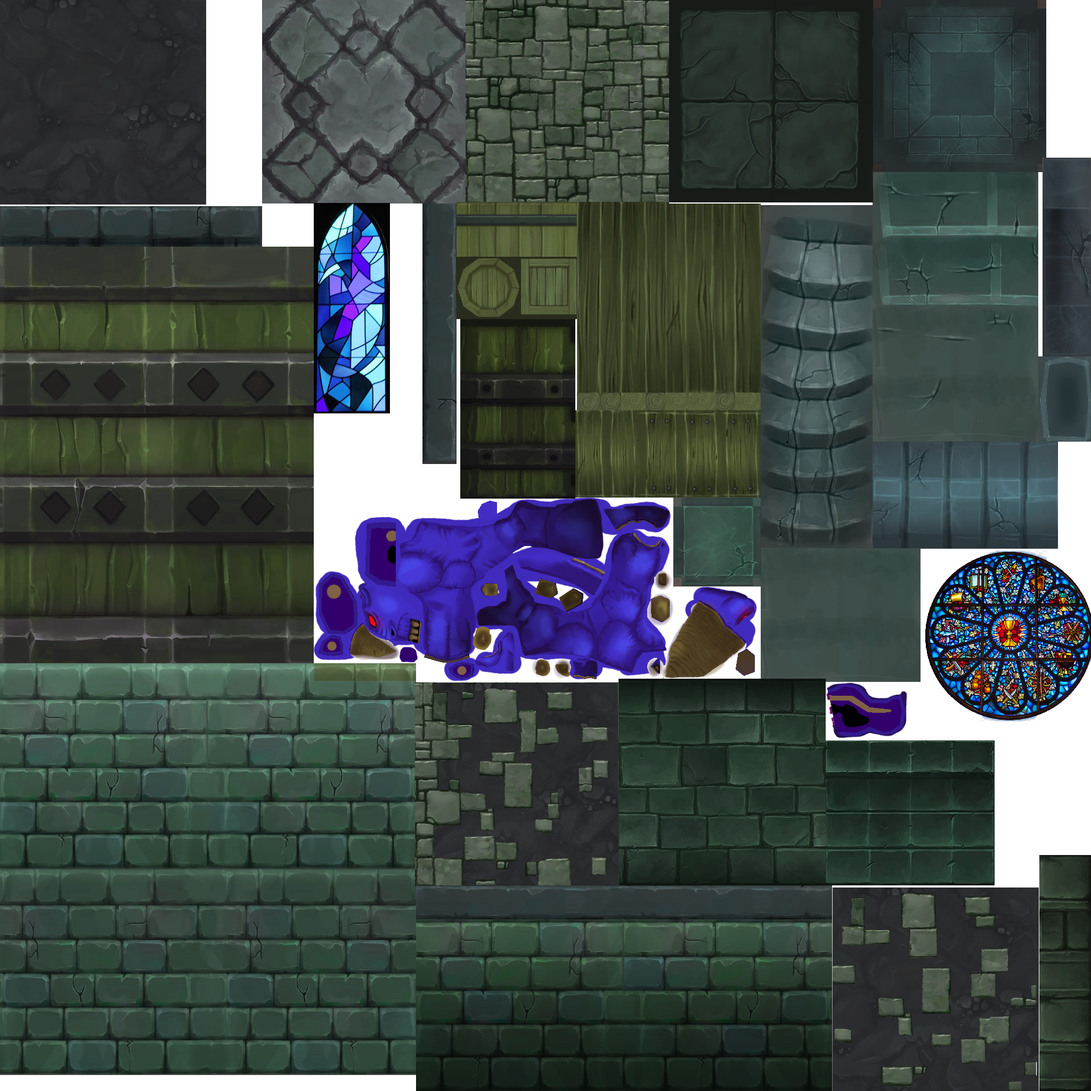
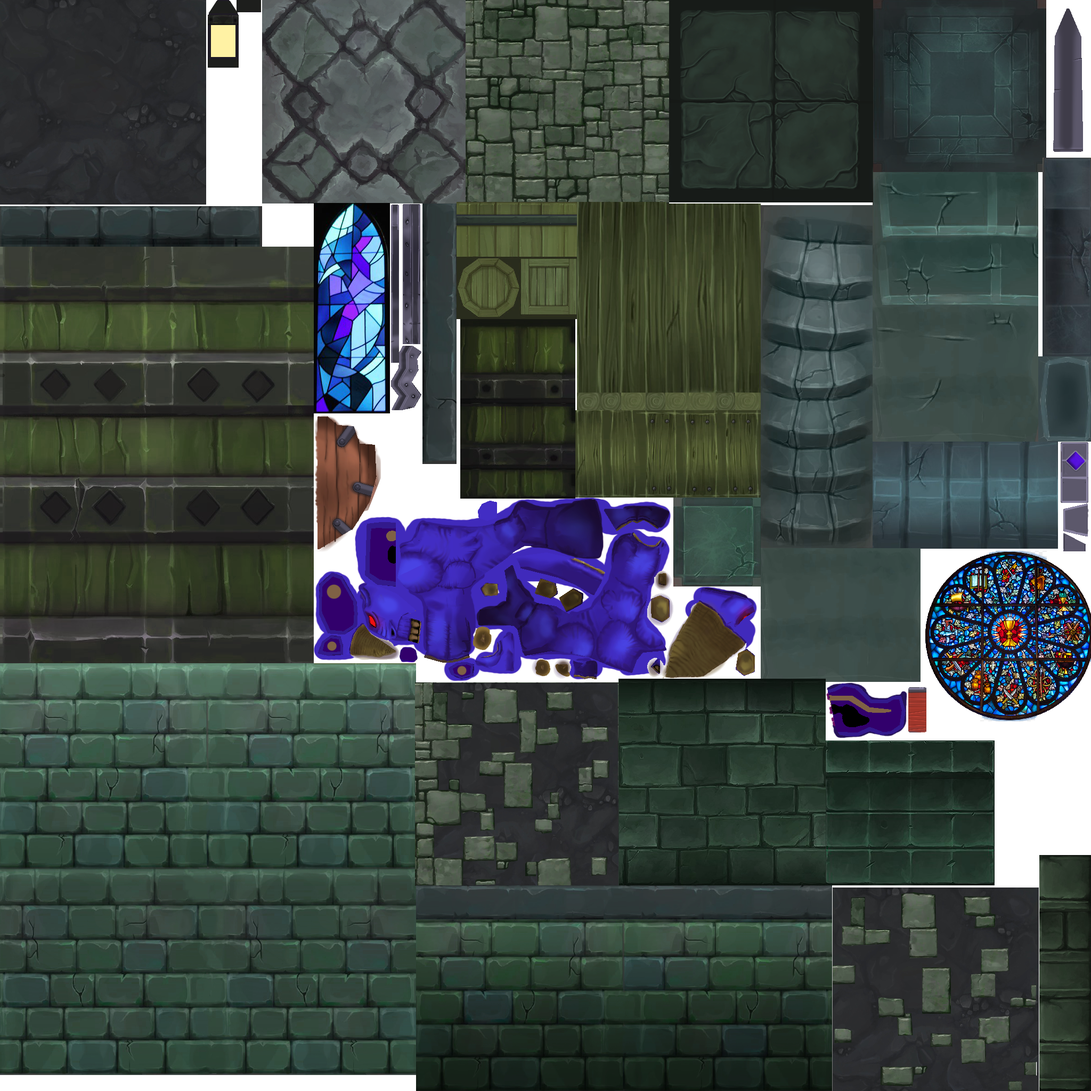
player assets

diff --git a/client/src/entities/player.js b/client/src/entities/player.js
@@ -2,19 +2,19 @@ import * as THREE from 'three';
 
 export default class Player {
 
-  constructor(materialRigid, camera) {
+  constructor(materialRigid, assets) {
     this.root = new THREE.Object3D();  //Object 3D racine de cette instance
     this.root.matrixAutoUpdate = false; //Object ne va jamais se déplacer
 
-    const geometryHandLeft = new THREE.BoxGeometry(0.1, 0.1, 0.1); //geométrie utilisée pour représenter la main gauche du joueur
-    const geometryHandRight = new THREE.BoxGeometry(0.06, 0.1, 0.4); //geométrie utilisée pour représenter la main droite du joueur
-    geometryHandRight.translate(0, 0, -0.2); //modification du centre de gravité de la géométrie pour symboliser une épée
+    this.handLeft = new THREE.Mesh(assets.shield.geometry, materialRigid.material); //création du mesh de la main gauche
+    this.handRight = new THREE.Mesh(assets.sword.geometry, materialRigid.material); //création du mesh de la main droite
+    this.lantern = new THREE.Mesh(assets.lantern.geometry, materialRigid.material);
 
-    this.handLeft = new THREE.Mesh(geometryHandLeft, materialRigid.material); //création du mesh de la main gauche
-    this.handRight = new THREE.Mesh(geometryHandRight, materialRigid.material); //création du mesh de la main droite
+    this.lantern.position.y = -0.35;
+    this.handLeft.add(this.lantern);
 
     this.light = new THREE.PointLight(0xffffff, 1, 30, 5); //création d'une lumière omni pour éclairer le jeu
-    this.handLeft.add(this.light); //la luimière est attachée à la main gauche
+    this.lantern.add(this.light); //la luimière est attachée à la main gauche
 
     this.root.add(this.handLeft); //les meshs sont attachée à l'objet root
     this.root.add(this.handRight);
@@ -52,6 +52,7 @@ export default class Player {
     this.handRight.rotateX(Math.PI / 6);  //oriention de l'épee de la main droite
     this.handLeft.position.copy(controllerLeft.position); //on récupére la positon de la main gauche
     this.handLeft.rotation.copy(controllerLeft.rotation); //on récupére l'orientation de la main gauche
+    this.lantern.lookAt(new THREE.Vector3(0, 0, -10));  //lanterne toujours horizontale
   }
 
   updatePositionByCamera(eye) { //Prise en compte des mouvements du casque

diff --git a/client/src/views/demo.js b/client/src/views/demo.js
@@ -28,7 +28,7 @@ export default class Demo extends engine.View {
 
     this.world = new World(assets.level, this.materials); //instance du niveau
     this.camera = new Camera(1, 0.5, 2); //instance de la camera
-    this.player = new Player(materialRigid); //instance du joueur
+    this.player = new Player(materialRigid, assets.level); //instance du joueur
 
     this.mobManager = new MobManager(assets, this.materials, Mob);//ajoute et supprime les instances des mobs
     this.triggerManager = new TriggerManager(assets.level, this.materials, this.world); //ouverture des portes, activation des interupteurs, ramasser des clés et armes
